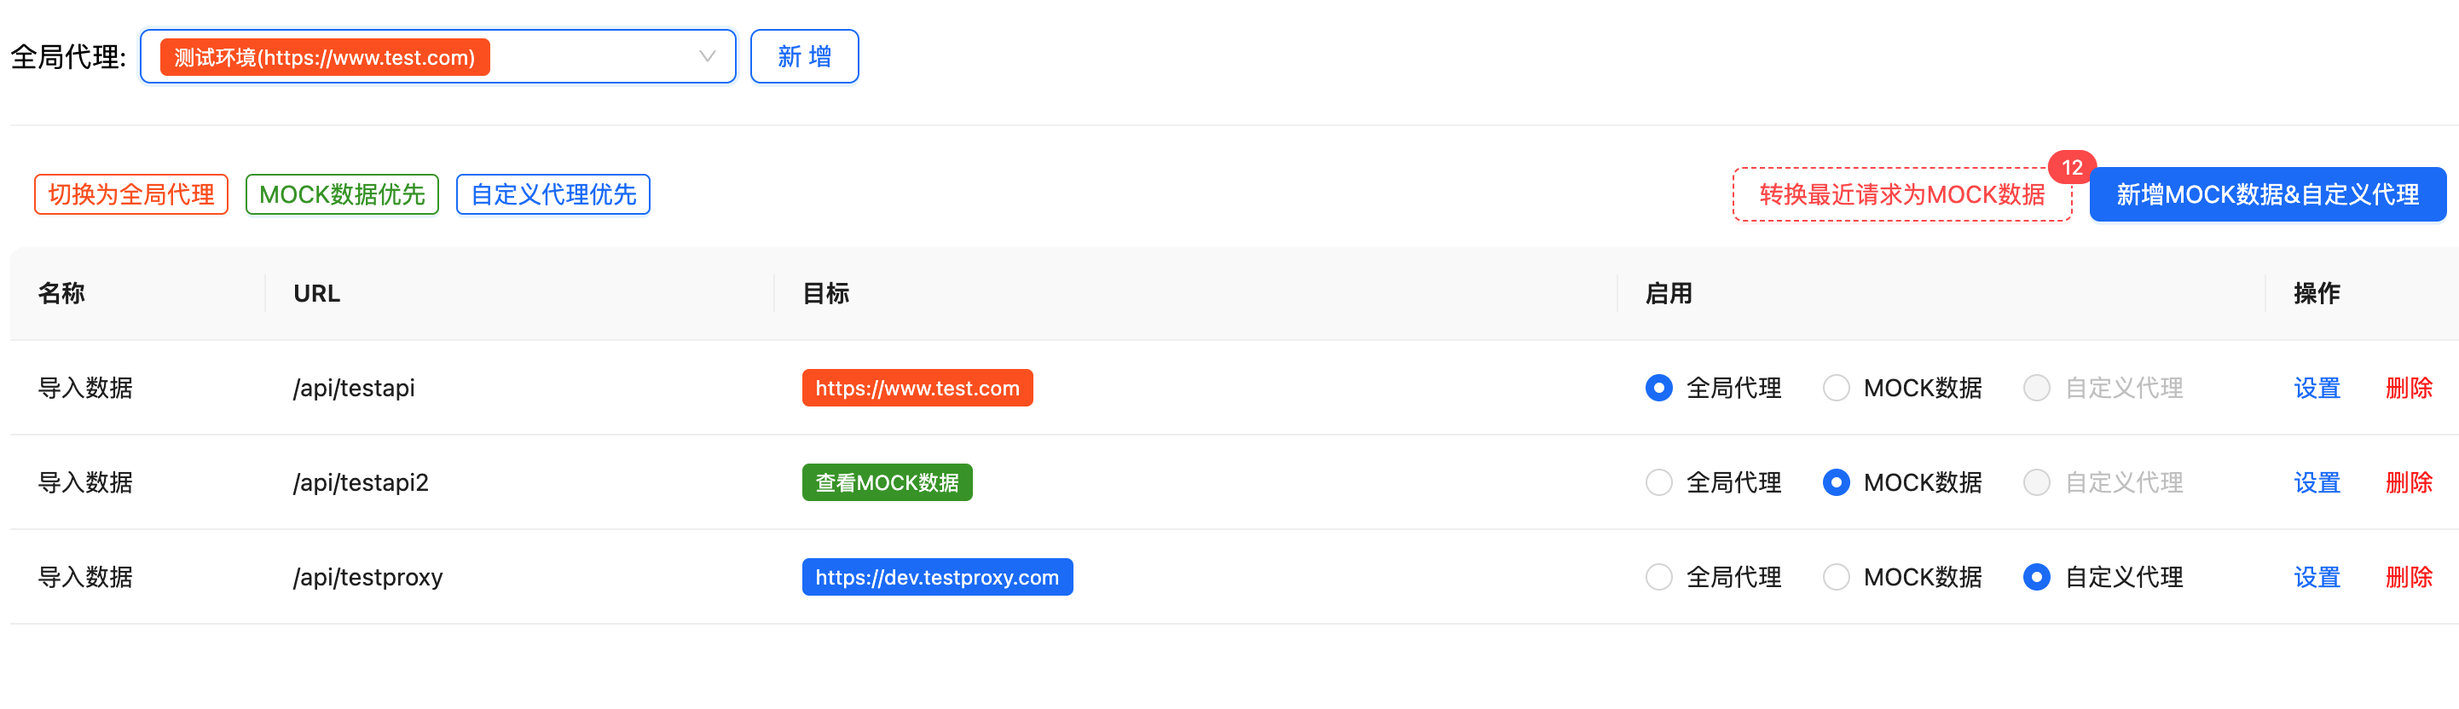
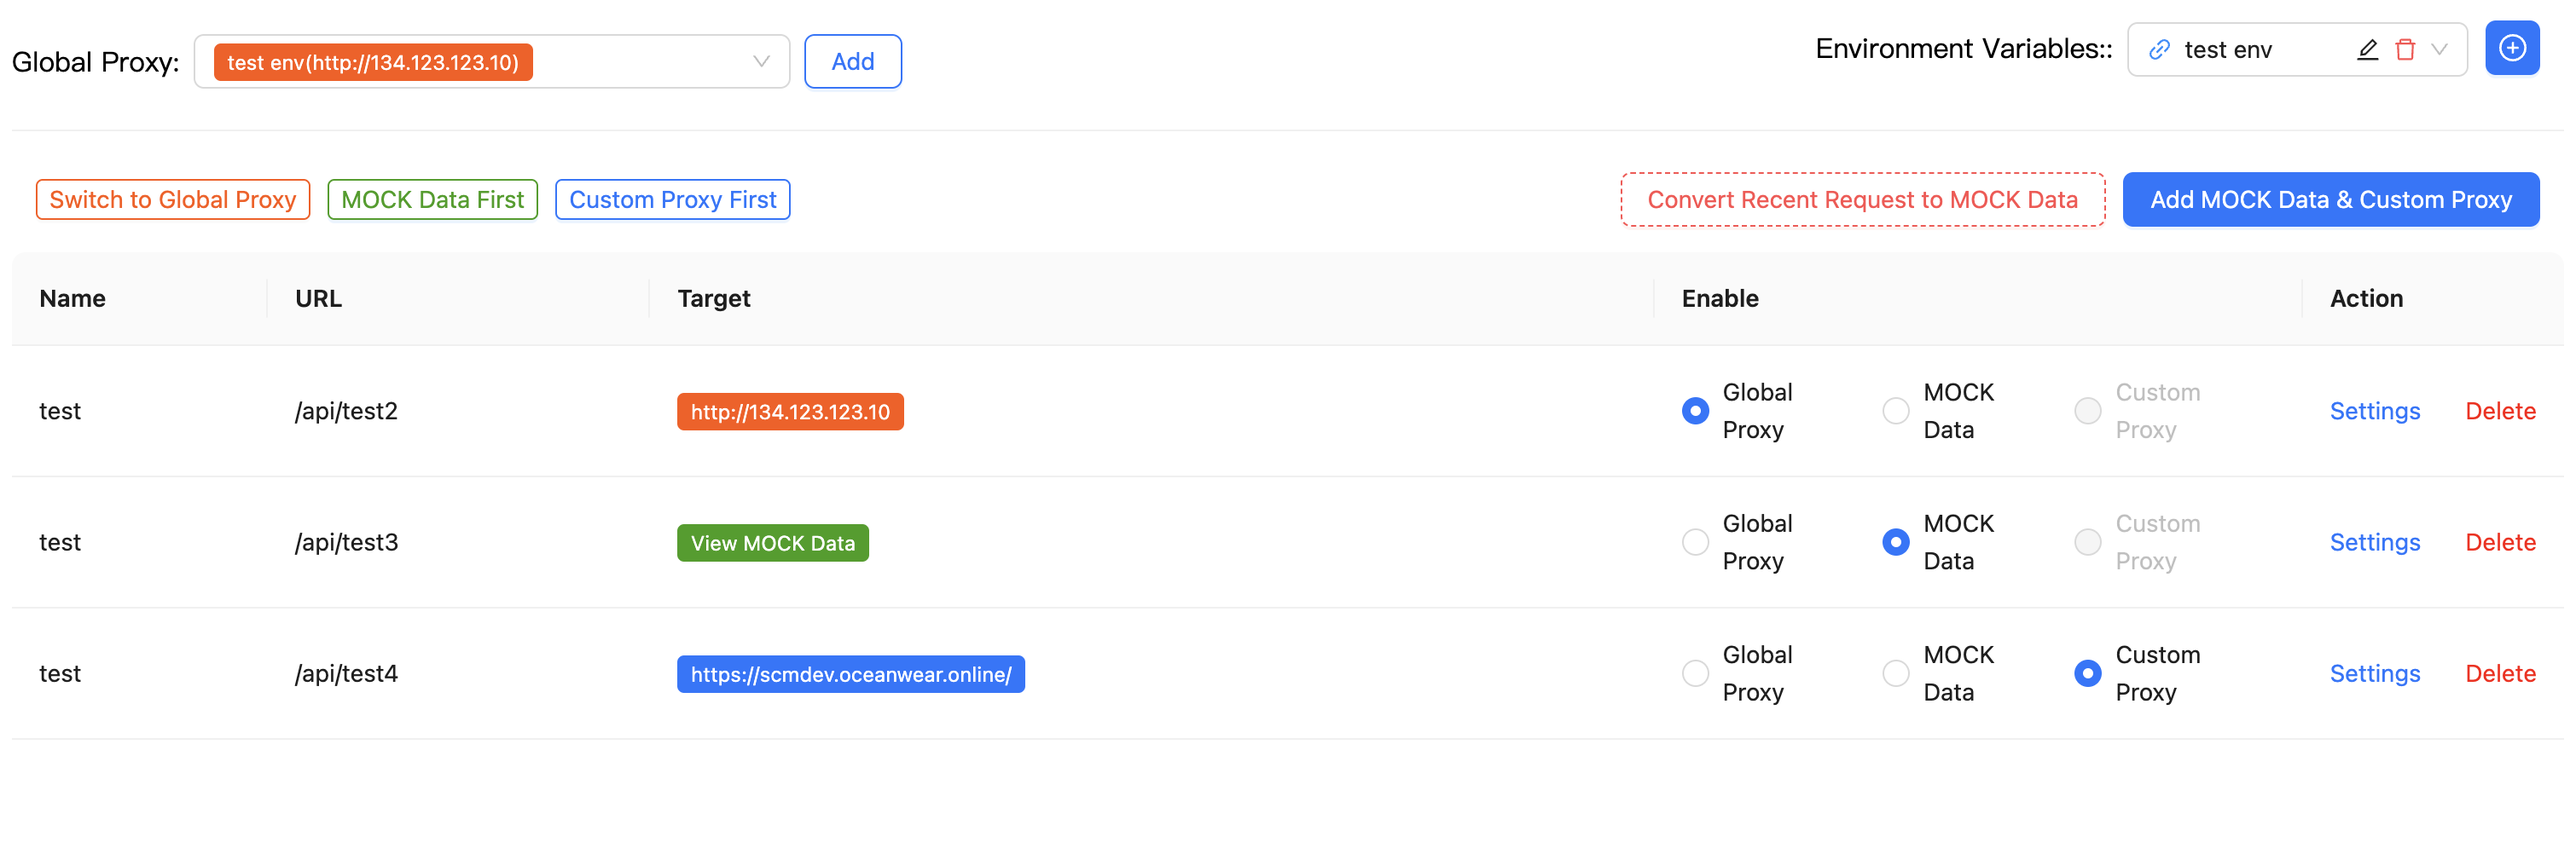
feat: 更新多语言支持，修正提示信息中的标点符号并调整环境变量显示

diff --git a/src/common/fun.js b/src/common/fun.js
@@ -117,8 +117,8 @@ const dict = {
   
   // 来自 envConfig
   "提示": "Prompt",
-  "是否清除本页所有缓存数据？": "Do you want to clear all cached data on this page?",
-  "环境变量:": "Environment Variables:",
+  "是否清除本页所有缓存数据": "Do you want to clear all cached data on this page?",
+  "环境变量": "Environment Variables:",
   
   // 来自 envForm
   "编辑环境变量": "Edit Environment Variable",
@@ -128,7 +128,7 @@ const dict = {
   // 来自 envSelect
   "选择环境变量": "Select Environment Variable",
   "确认删除": "Confirm Delete",
-  "是否确认删除该环境变量?": "Are you sure to delete this environment variable?",
+  "是否确认删除该环境变量": "Are you sure to delete this environment variable?",
   "确认": "Confirm",
   "无": "None",
 }

diff --git a/src/components/envConfig/envConfig.jsx b/src/components/envConfig/envConfig.jsx
@@ -23,8 +23,8 @@ const EnvConfig = ({ value, onChange, disabled }) => {
   useEffect(() => {
     if (preEnvId !== null) {
       Modal.confirm({
-        title: '提示',
-        content: '是否清除本页所有缓存数据？',
+        title: t('提示'),
+        content: t('是否清除本页所有缓存数据'),
         onOk: () => {
           console.log('请除本地所有缓存数据');
           localStorage.clear();
@@ -42,7 +42,7 @@ const EnvConfig = ({ value, onChange, disabled }) => {
 
   return (
     <div style={{ display: 'inline-block', marginLeft: 20 }}>
-      <span style={{ marginRight: 8 }}>环境变量:</span>
+      <span style={{ marginRight: 8 }}>{t('环境变量')}:</span>
       <EnvSelect 
         value={value} 
         onChange={handleEnvChange}

diff --git a/src/components/envSelect/envSelect.jsx b/src/components/envSelect/envSelect.jsx
@@ -83,7 +83,7 @@ const EnvSelect = forwardRef(({ value, onChange, style, disabled }, ref) => {
                 />
                 <Popconfirm
                   title={t("确认删除")}
-                  description={t("是否确认删除该环境变量?")}
+                  description={t("是否确认删除该环境变量")}
                   onConfirm={(e) => {
                     e?.preventDefault();
                     e?.stopPropagation();

diff --git a/webpack.test.js b/webpack.test.js
@@ -27,6 +27,8 @@ module.exports = {
                 BASE_URL: 'http://localhost:3000'
             })  // 添加初始化的process.env对象
         }),
-        new WebpackProxyMockPlugin({}),
+        new WebpackProxyMockPlugin({
+            lang: 'en',
+        }),
     ]
 };
